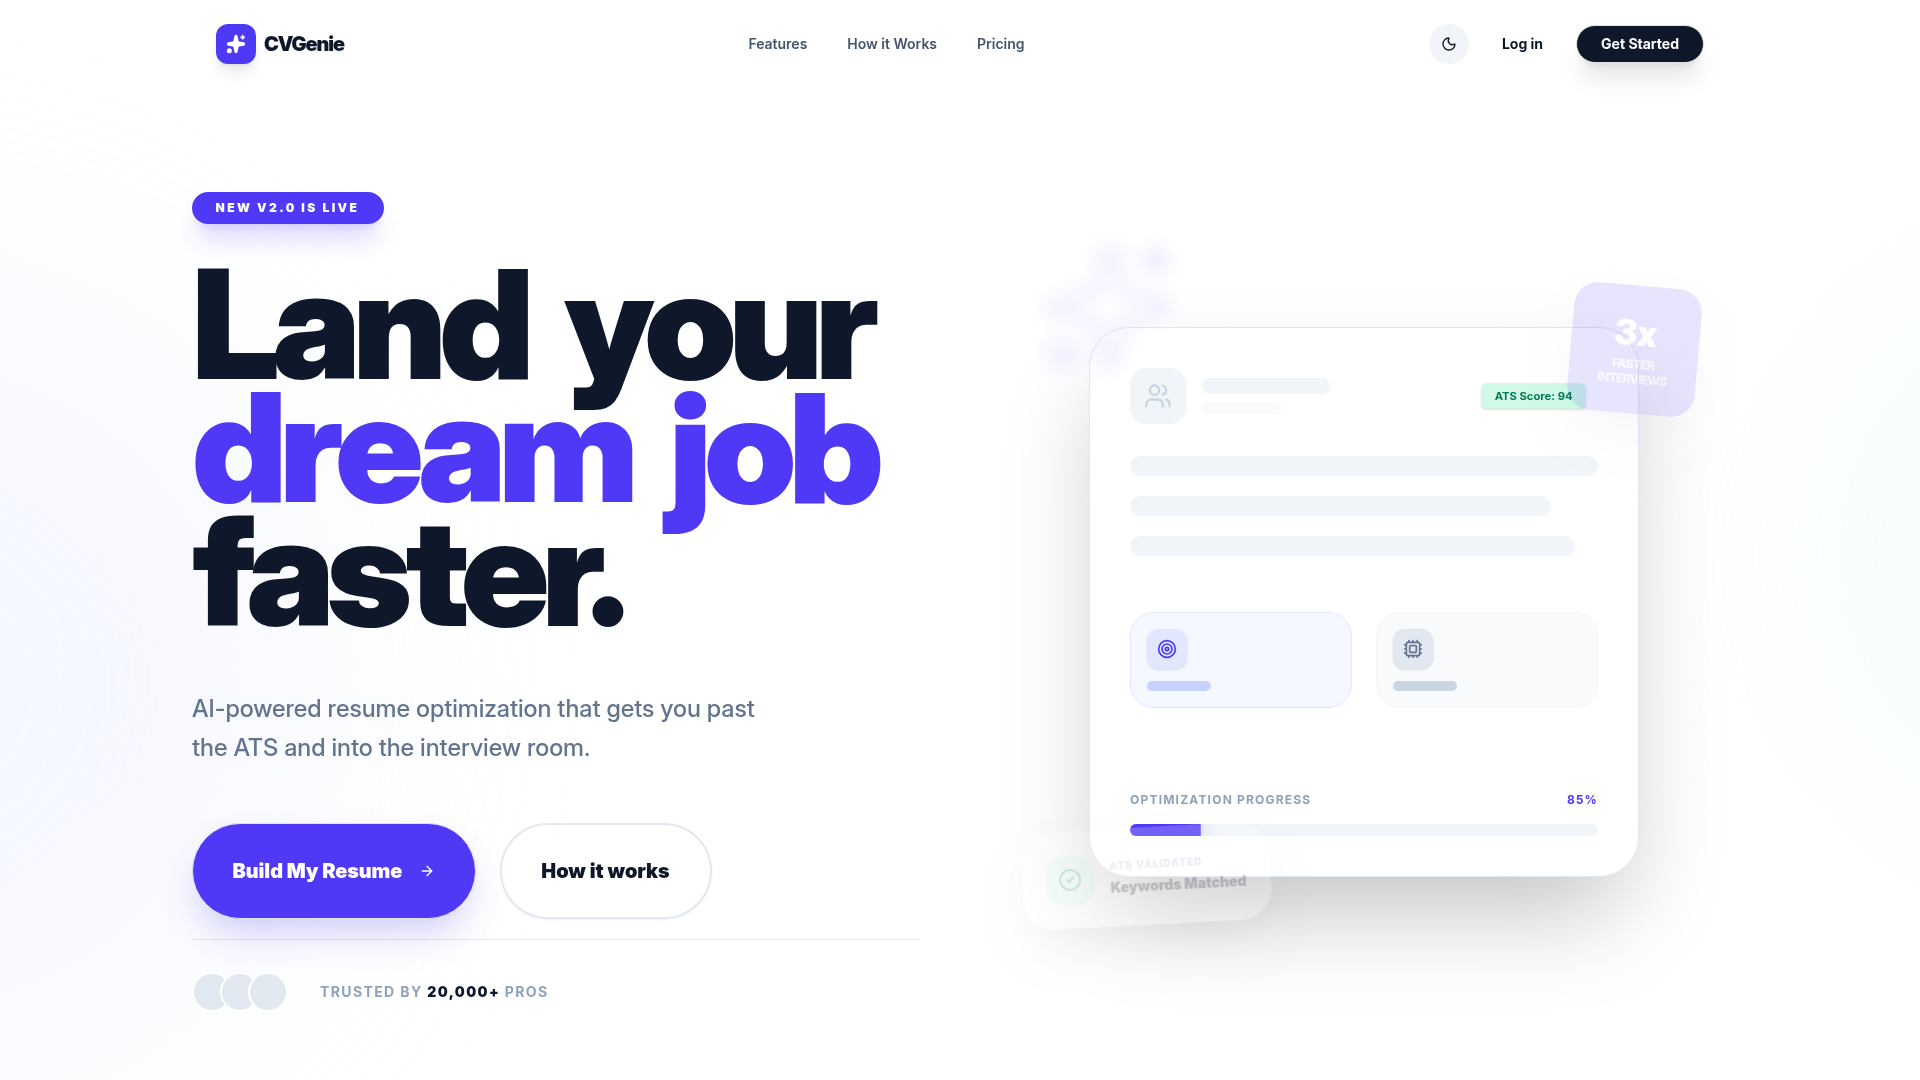
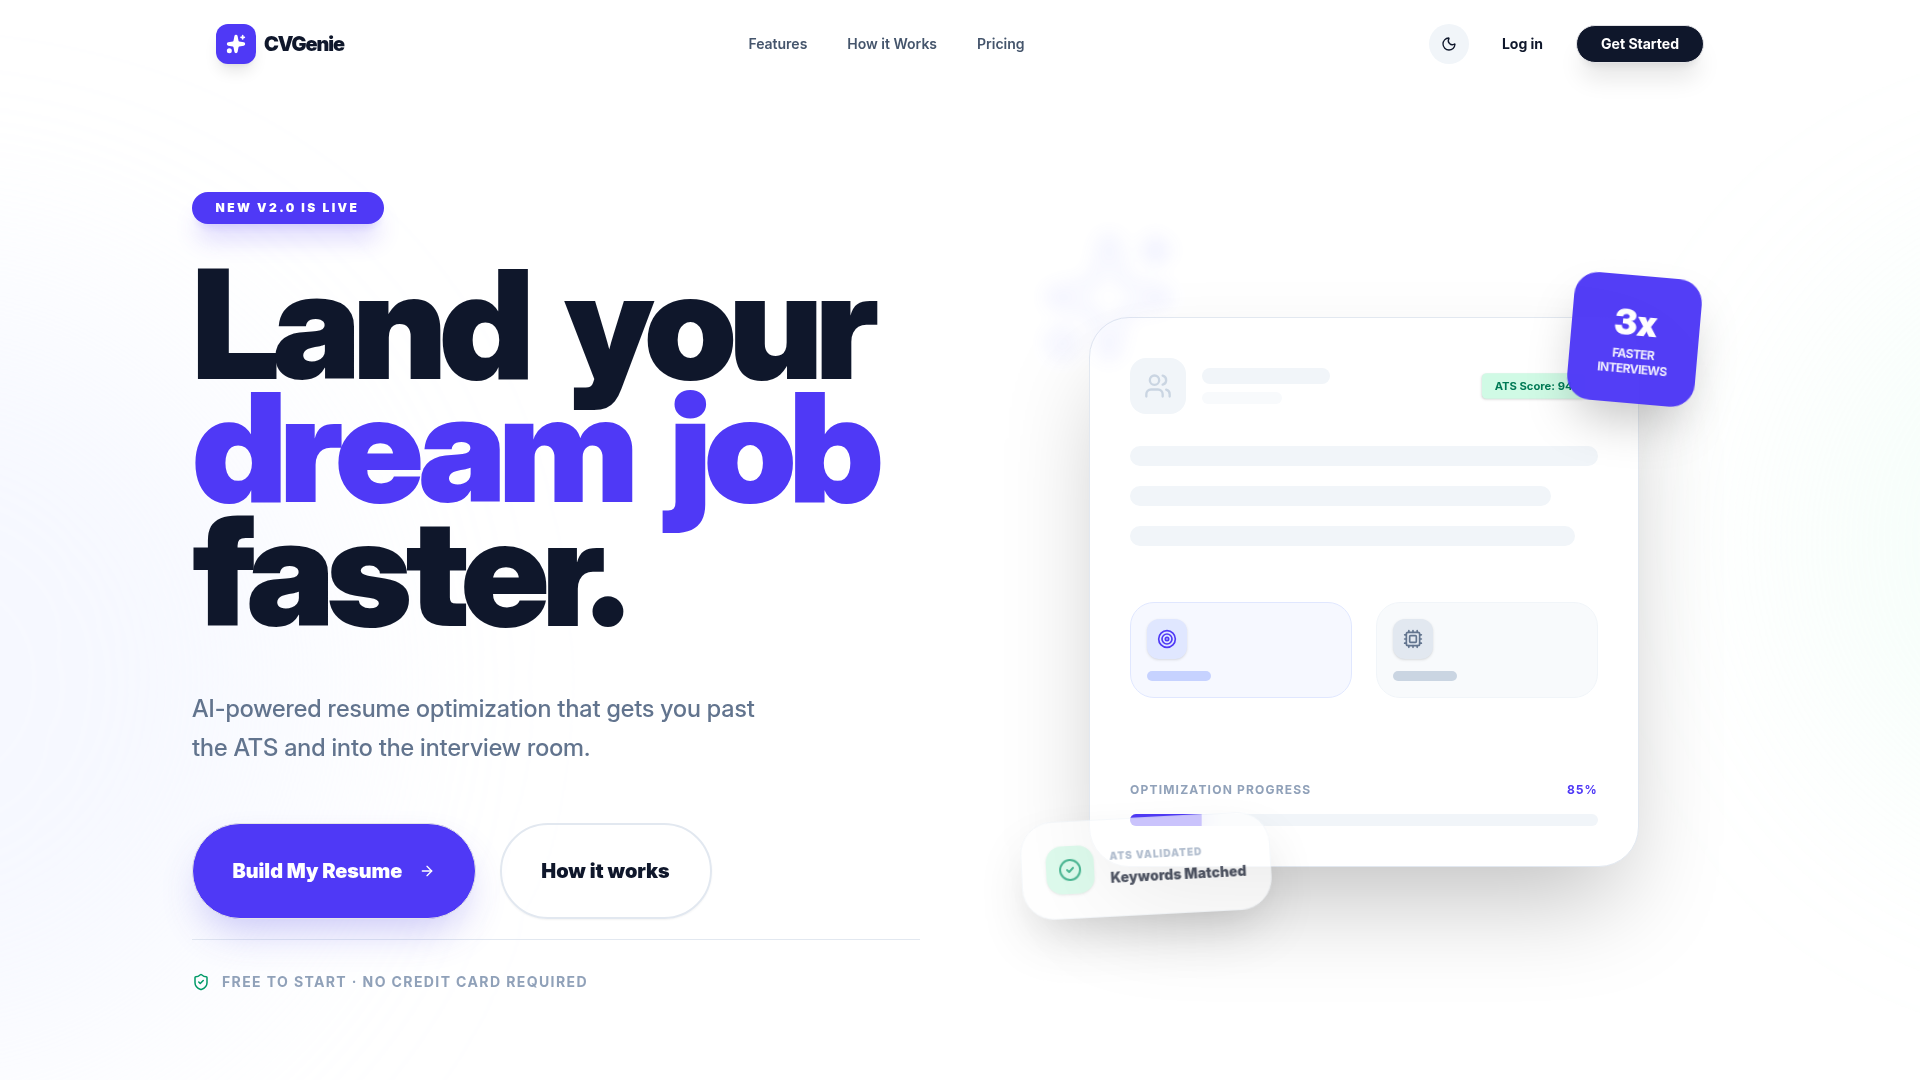
Update homepage to remove user count and testimonial claims
Remove social proof elements like user counts and testimonials from the homepage, replacing them with generic claims and ATS pass-rate statistics.

Replit-Commit-Author: Agent
Replit-Commit-Session-Id: e66664c8-ba24-42de-b03b-d106c0e53ab6
Replit-Commit-Checkpoint-Type: full_checkpoint
Replit-Commit-Event-Id: 657cad9d-5f6c-4b3f-87e5-841cc820a9c0
Replit-Commit-Screenshot-Url: https://storage.googleapis.com/screenshot-production-us-central1/ba2a5965-4ce2-49f6-b0ed-91ef294c7924/e66664c8-ba24-42de-b03b-d106c0e53ab6/MEDNMzi
Replit-Helium-Checkpoint-Created: true

diff --git a/artifacts/mockup-sandbox/src/components/mockups/cvgenie-redesign/Home.tsx b/artifacts/mockup-sandbox/src/components/mockups/cvgenie-redesign/Home.tsx
@@ -301,23 +301,10 @@ const BentoGrid = () => {
                 We analyze job descriptions and optimize your resume with the exact keywords hiring managers are looking for.
               </p>
             </div>
-            <div className="mt-16 flex items-center gap-6 relative z-10">
-              <div className="flex -space-x-4">
-                {[1,2,3,4].map(i => (
-                  <motion.div 
-                    key={i} 
-                    whileHover={{ y: -5, scale: 1.1 }}
-                    className="w-14 h-14 rounded-full border-4 border-white dark:border-slate-900 bg-slate-200 dark:bg-slate-800 overflow-hidden shadow-lg cursor-pointer"
-                  >
-                    <div className="w-full h-full bg-gradient-to-br from-slate-200 to-slate-300 dark:from-slate-700 dark:to-slate-800" />
-                  </motion.div>
-                ))}
-                <div className="w-14 h-14 rounded-full border-4 border-white dark:border-slate-900 bg-indigo-600 flex items-center justify-center text-white text-xs font-bold shadow-lg">
-                  +10k
-                </div>
-              </div>
+            <div className="mt-16 flex items-center gap-3 relative z-10">
+              <ArrowRight size={18} className="text-indigo-600 dark:text-indigo-400" />
               <div className="text-sm font-black text-slate-900 dark:text-slate-200 uppercase tracking-widest">
-                Join 10,000+ job seekers
+                Built for job seekers who want an edge
               </div>
             </div>
           </motion.div>
@@ -367,7 +354,7 @@ const BentoGrid = () => {
               <span className="text-indigo-400 text-sm font-black uppercase tracking-widest">Success</span>
             </div>
             <div className="text-sm text-slate-400 dark:text-slate-300 leading-relaxed font-medium">
-              Increase in interview callbacks for Pro users.
+              Of resumes pass automated ATS keyword screening after optimization.
             </div>
           </motion.div>
 
@@ -804,15 +791,11 @@ export function Home() {
                 initial={{ opacity: 0 }}
                 animate={{ opacity: 1 }}
                 transition={{ delay: 1.5 }}
-                className="flex items-center gap-8 pt-8 border-t border-slate-200 dark:border-slate-800 transition-colors"
+                className="flex items-center gap-3 pt-8 border-t border-slate-200 dark:border-slate-800 transition-colors"
               >
-                <div className="flex -space-x-3">
-                  {[1,2,3].map(i => (
-                    <div key={i} className="w-10 h-10 rounded-full border-2 border-white dark:border-slate-900 bg-slate-200 dark:bg-slate-800" />
-                  ))}
-                </div>
+                <ShieldCheck size={18} className="text-emerald-600 dark:text-emerald-400" />
                 <div className="text-sm font-bold text-slate-400 uppercase tracking-widest">
-                  Trusted by <span className="text-slate-900 dark:text-white transition-colors font-black">20,000+</span> pros
+                  Free to start &middot; No credit card required
                 </div>
               </motion.div>
             </div>
